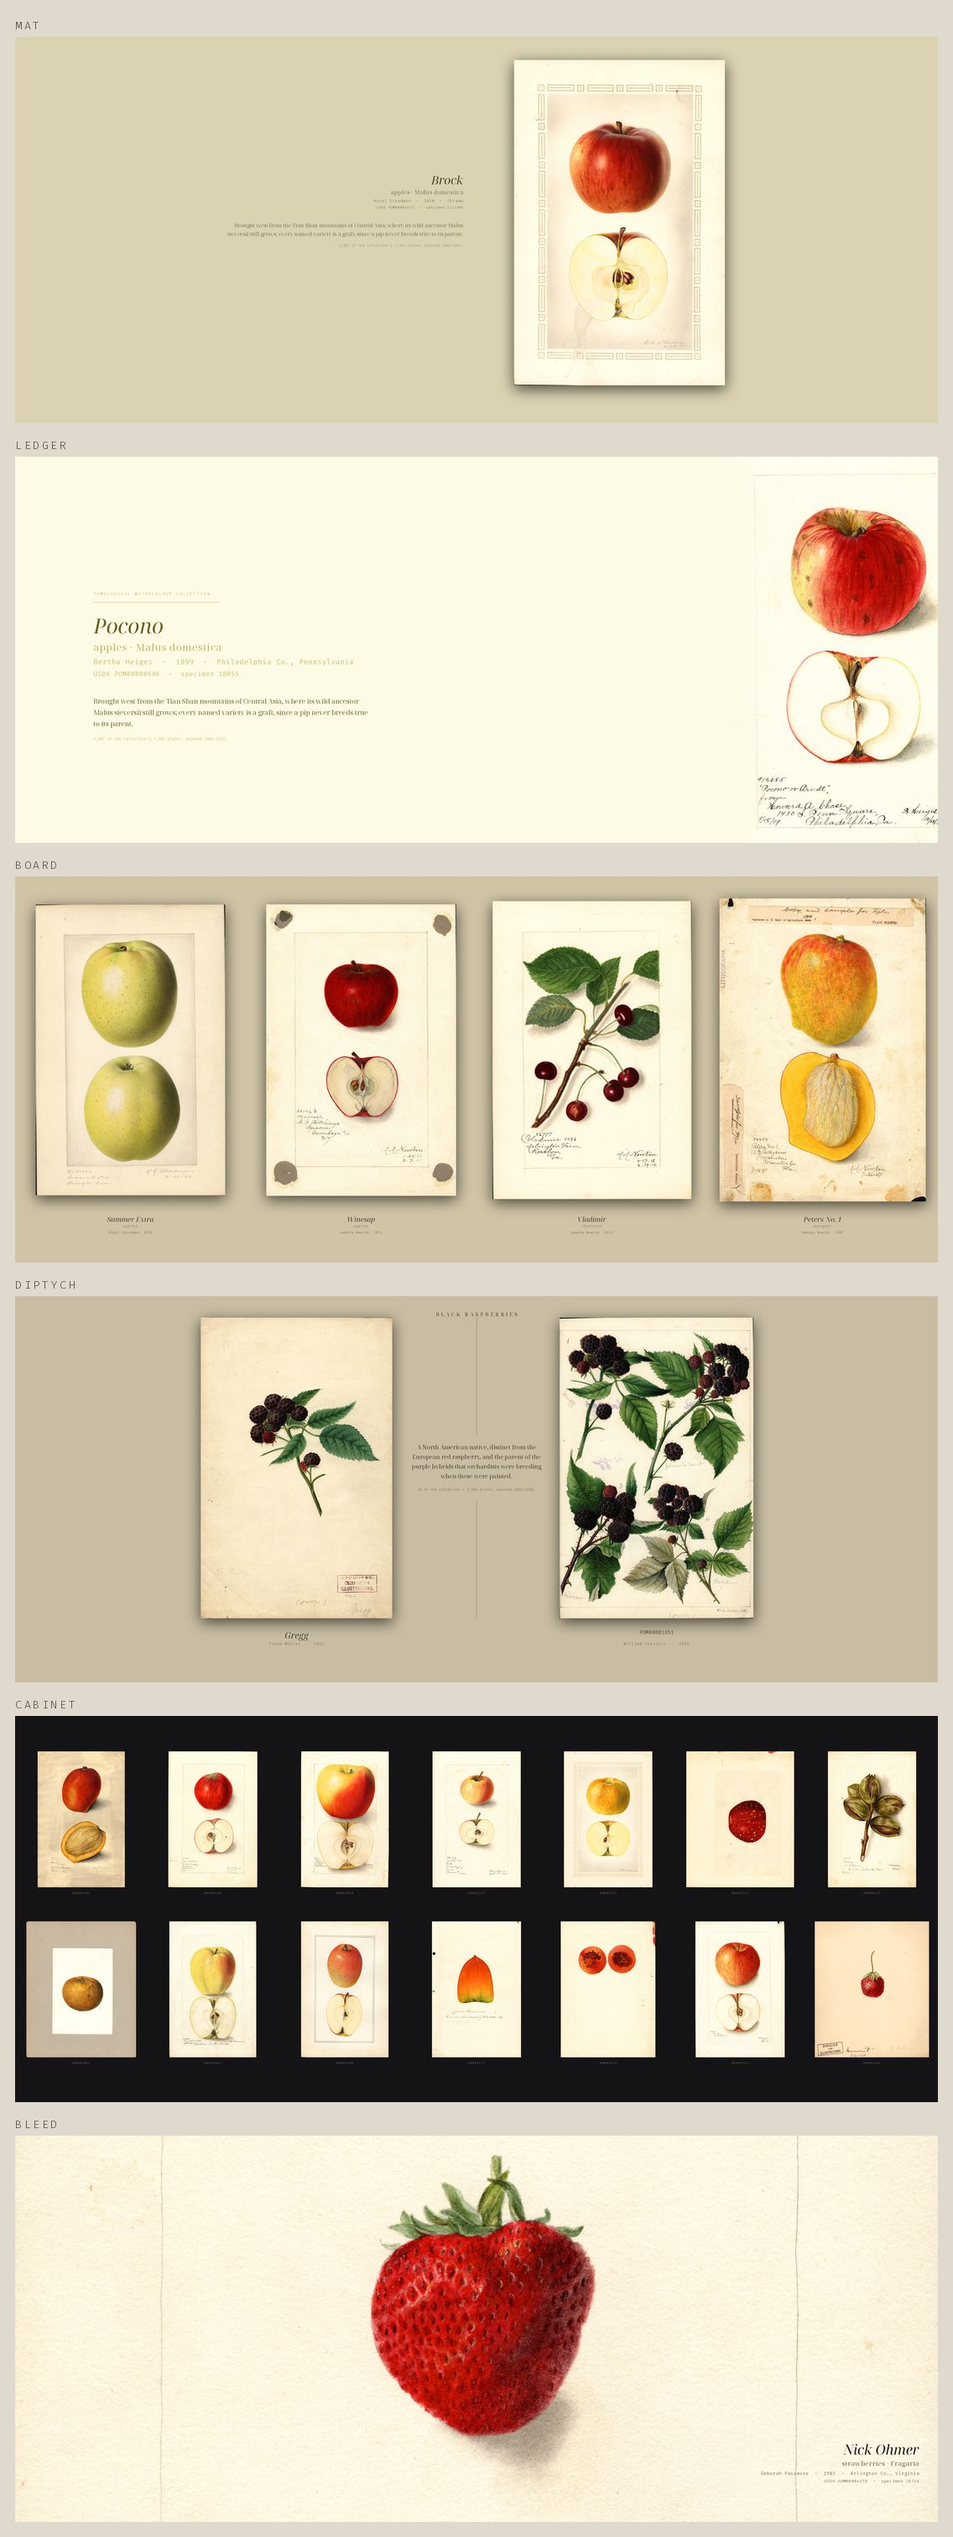
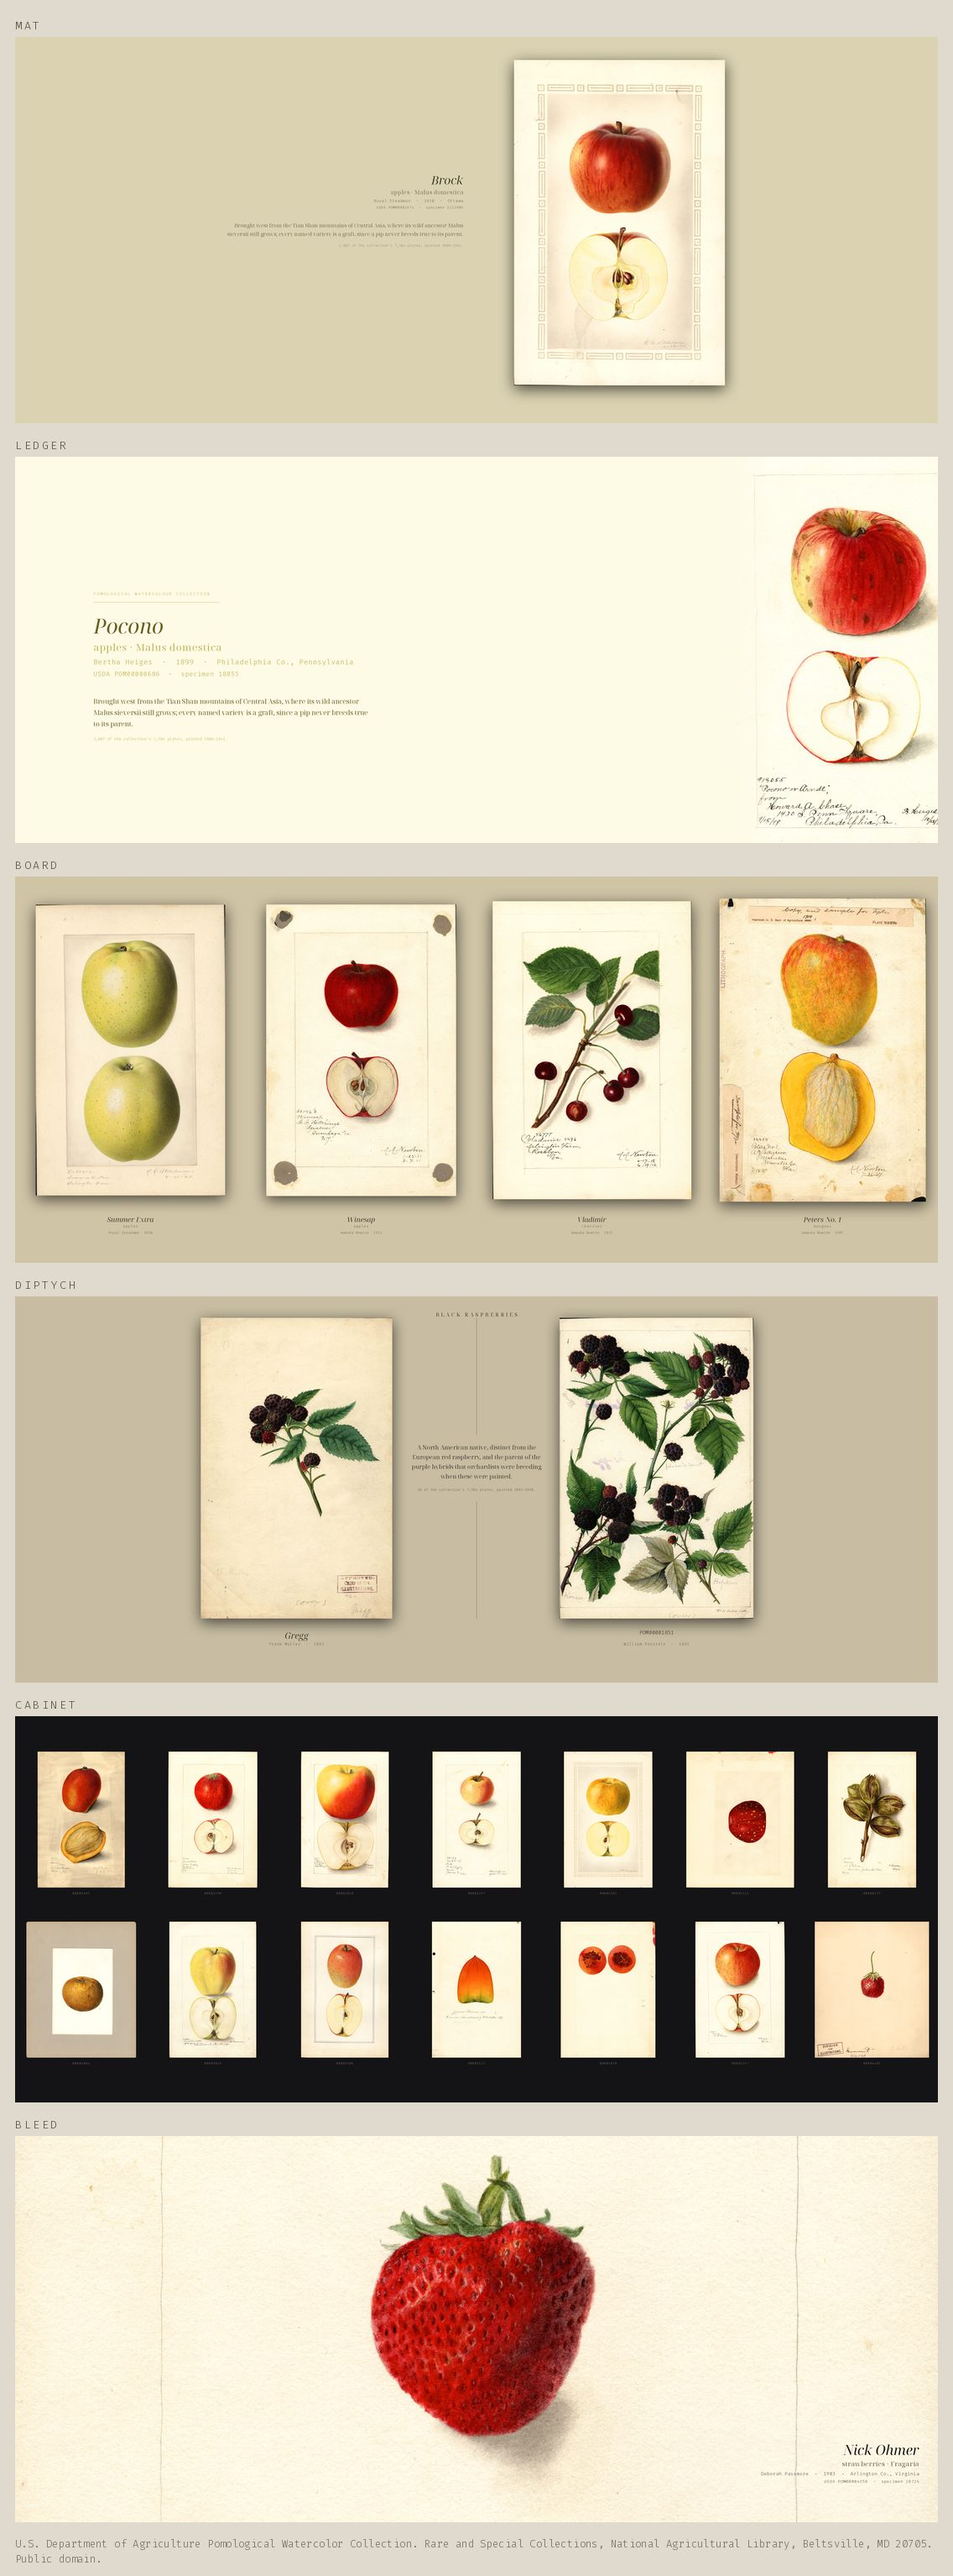
Audit for publication: licence precision, credit on the preview, safer claims
- LICENSE now says exactly which two files carry reproductions of the
  paintings, and why the MIT grant does not extend to them.
- The NAL credit is baked into docs/preview.jpg, because an image gets
  separated from the README that carried its attribution the first time
  anyone saves it.
- Softened four botanical claims (avocados, cherries, pecans, plums) that
  were stated more confidently than the evidence supports.
- XFCE: report needs-setup when monitors cannot be enumerated instead of
  guessing an output name and writing a key xfdesktop will never read.

diff --git a/scripts/surfaces.py b/scripts/surfaces.py
@@ -83,9 +83,16 @@ class Xfce(Backend):
         return [ln.split()[0] for ln in out.splitlines() if " connected" in ln]
 
     def set_desktop(self, path: str, dry: bool) -> str:
+        monitors = self._monitors()
+        if not monitors:
+            # Backdrop keys are named after the output, so without the real
+            # names there is nothing useful to write -- guessing one writes a
+            # key xfdesktop will never read, which looks like success and is not.
+            print("    ! could not enumerate monitors (is xrandr installed?)")
+            return NEEDS_SETUP
         run(["xfconf-query", "-c", "xfce4-desktop", "-p", "/backdrop/single-workspace-mode",
              "-n", "-t", "bool", "-s", "true"], dry)
-        for mon in self._monitors() or ["HDMI-0"]:
+        for mon in monitors:
             base = f"/backdrop/screen0/monitor{mon}/workspace0"
             run(["xfconf-query", "-c", "xfce4-desktop", "-p", f"{base}/last-image",
                  "-n", "-t", "string", "-s", path], dry)

diff --git a/README.md b/README.md
@@ -41,16 +41,16 @@ panel, dock and icons.
 ## Quick start
 
 ```sh
-nix run github:YOU/pomological-watercolors -- db          # catalogue, ~4 MB
-nix run github:YOU/pomological-watercolors -- fetch --limit 200
-nix run github:YOU/pomological-watercolors -- prepare --all
-nix run github:YOU/pomological-watercolors -- set
+nix run github:placeybordeaux/pomological-watercolors-lockscreen -- db          # catalogue, ~4 MB
+nix run github:placeybordeaux/pomological-watercolors-lockscreen -- fetch --limit 200
+nix run github:placeybordeaux/pomological-watercolors-lockscreen -- prepare --all
+nix run github:placeybordeaux/pomological-watercolors-lockscreen -- set
 ```
 
 Without nix, it is Python 3 and Pillow and nothing else:
 
 ```sh
-git clone https://github.com/YOU/pomological-watercolors && cd $_
+git clone https://github.com/placeybordeaux/pomological-watercolors-lockscreen && cd $_
 pip install pillow          # or: nix develop
 scripts/pom db && scripts/pom fetch --limit 200 && scripts/pom prepare --all
 scripts/pom set
@@ -124,7 +124,7 @@ by hand.
 
 ```nix
 {
-  inputs.pomological.url = "github:YOU/pomological-watercolors";
+  inputs.pomological.url = "github:placeybordeaux/pomological-watercolors-lockscreen";
 
   # system: the greeter half, which is the part that needs root
   imports = [ inputs.pomological.nixosModules.default ];
